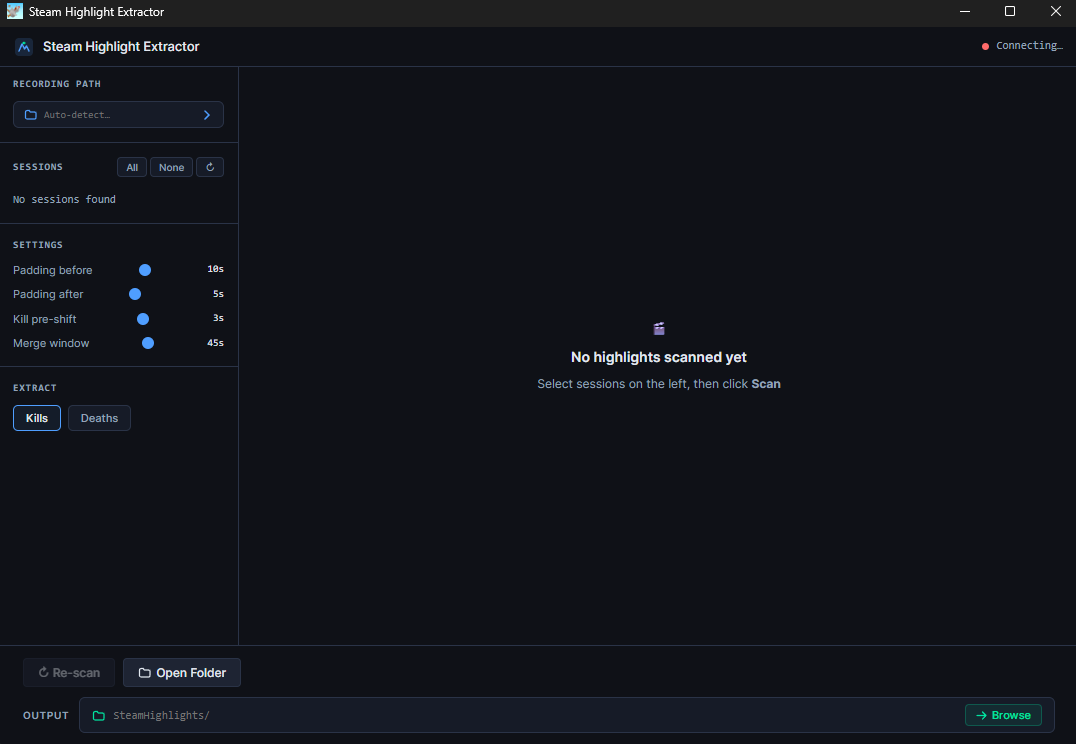
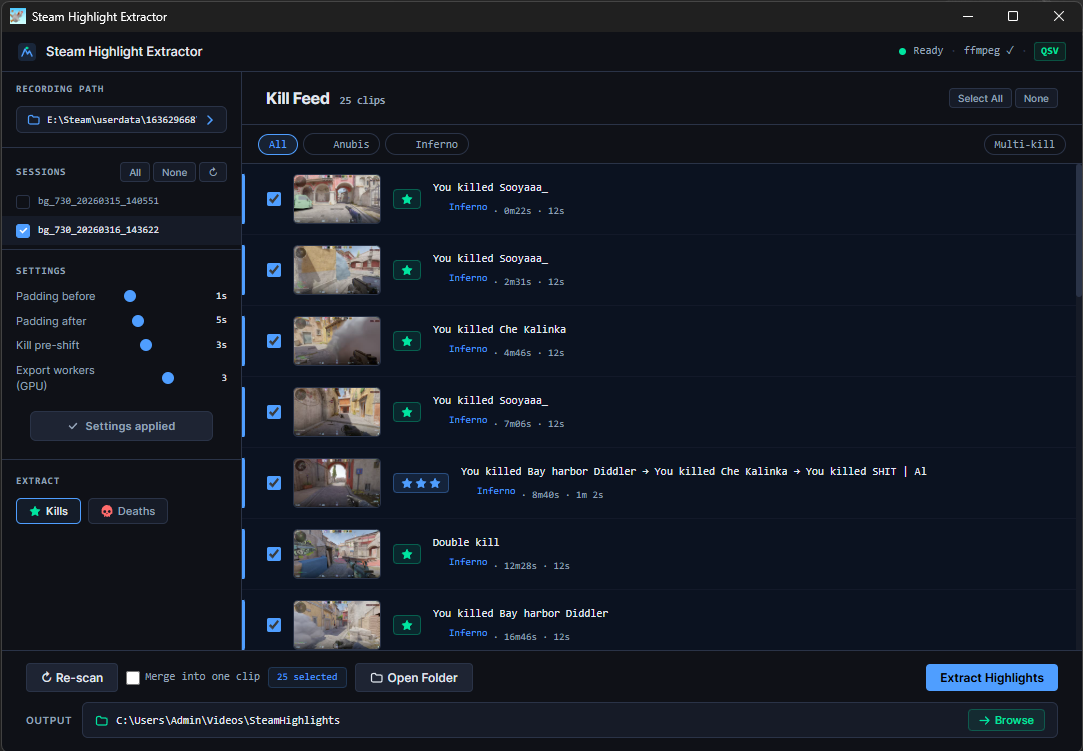
docs: update README and screenshot for v2.2.0
- Remove ffmpeg install step (now bundled)
- Document in-app preview player and clip trim controls
- Add preview player troubleshooting entry
- Update screenshot to current UI

diff --git a/README.md b/README.md
@@ -8,18 +8,12 @@ It reads the timeline data Steam already records alongside your gameplay, finds 
 
 ## Quick Start
 
-1. **Download** `SteamHighlightExtractor_2.0.1_x64-setup.exe` from the [Releases](../../releases) page and install it
-2. **Install ffmpeg** — pick one option:
-   - **Winget** (Windows 10/11): open a terminal and run:
-     ```
-     winget install Gyan.FFmpeg
-     ```
-   - **Direct download**: get a Windows build from [ffmpeg.org](https://ffmpeg.org/download.html) → Windows → "Windows builds from gyan.dev" → download `ffmpeg-release-essentials.zip`, extract it, and add the `bin/` folder to your PATH
-3. **Enable Steam Background Recording**
+1. **Download** `SteamHighlightExtractor_2.2.0_x64-setup.exe` from the [Releases](../../releases) page and install it
+2. **Enable Steam Background Recording**
    Steam → Settings → Game Recording → turn on Background Recording
-4. **Launch** `Steam Highlight Extractor` from the Start Menu
+3. **Launch** `Steam Highlight Extractor` from the Start Menu
 
-No Python installation required.
+No Python installation required. No ffmpeg installation required — it's bundled.
 
 ---
 
@@ -33,12 +27,14 @@ No Python installation required.
 
 The app auto-detects your Steam recording folder on launch and scans the most recent session automatically.
 
-1. **Select sessions** from the sidebar — add or remove sessions without re-scanning the ones you've already loaded
+1. **Select sessions** from the sidebar — add or remove sessions without re-scanning ones you've already loaded
 2. **Review highlights** in the kill feed — each row shows a thumbnail preview, kill type badge, clip name, and duration
-3. **Check the clips** you want to export (all are selected by default)
-4. Set your **output folder** and toggle **Merge** if you want a single combined file
-5. Click **▶ Export Selected** — per-clip progress cards show encoding status in real time
-6. Click **📂 Open Output Folder** when done
+3. **Preview clips** with the play button on any row — watch the raw DASH recording before exporting, with kill event markers shown on the timeline
+4. **Trim clips** inside the preview player — use the Start/End sliders to adjust clip boundaries, then click **✓ Apply** to save; trimmed rows get a **TRIMMED** badge
+5. **Check the clips** you want to export (all are selected by default)
+6. Set your **output folder** and toggle **Merge** if you want a single combined file
+7. Click **▶ Export Selected** — per-clip progress cards show encoding status in real time
+8. Click **📂 Open Output Folder** when done
 
 Use **⏹ Stop** to cancel at any time. Already-exported clips are always skipped automatically, so re-running is safe.
 
@@ -61,8 +57,9 @@ Use **⏹ Stop** to cancel at any time. Already-exported clips are always skippe
 ## Requirements
 
 - **Windows 10/11 x64**
-- **ffmpeg** — `winget install Gyan.FFmpeg` or download from [ffmpeg.org](https://ffmpeg.org/download.html)
 - **Steam Background Recording enabled**
+
+ffmpeg is bundled — no separate installation needed.
 
 ---
 
@@ -79,29 +76,33 @@ cd frontend
 npx tauri dev
 ```
 
+For dev mode you'll need `ffmpeg.exe` in the project root (it's bundled into the release build via PyInstaller but loaded from disk in dev).
+
 ---
 
 ## Building from source
 
 ```bash
-# 1. Bundle the Python backend as a sidecar executable
+# 1. Place ffmpeg.exe in the project root (required for PyInstaller bundling)
+
+# 2. Bundle the Python backend as a sidecar executable
 pip install pyinstaller
 pyinstaller server.spec --noconfirm
 
-# 2. Copy the sidecar into the Tauri binaries folder
+# 3. Copy the sidecar into the Tauri binaries folder
 copy dist\server.exe frontend\src-tauri\binaries\server-x86_64-pc-windows-msvc.exe
 
-# 3. Re-enable the sidecar in tauri.conf.json:
+# 4. Re-enable the sidecar in tauri.conf.json:
 #    "externalBin": ["binaries/server"]
 
-# 4. Build the Tauri installer
+# 5. Build the Tauri installer
 cd frontend
 npx tauri build
 ```
 
 Output: `frontend/src-tauri/target/release/bundle/`
 
-Or just run `build_tauri.bat` which does all of the above.
+Or just run `build_tauri.bat` which does all of the above (and checks for `ffmpeg.exe` upfront).
 
 ---
 
@@ -113,7 +114,8 @@ This tool:
 1. Reads the timeline JSON to find kill/highlight events
 2. Calculates which recording chunks cover each event, accounting for circular buffer rollover
 3. Extracts a thumbnail frame from the clip midpoint during the scan phase
-4. Concatenates the relevant chunks and uses ffmpeg to trim and encode each clip
+4. Serves the raw DASH stream to the in-app preview player so you can watch before exporting
+5. Concatenates the relevant chunks and uses ffmpeg to trim and encode each clip
 
 GPU-accelerated encoding is used automatically when available (NVIDIA NVENC, AMD AMF, or Intel Quick Sync). Falls back to software libx264 if no GPU encoder is detected.
 
@@ -145,13 +147,13 @@ Currently tested with **Counter-Strike 2 (CS2)**. Any game that writes events to
 
 **Wrong moment captured**
 - Increase the **Kill pre-shift** setting. CS2 logs kill events at death confirmation, which is 1–3 seconds after the shot lands.
+- Use the in-app preview player to check the clip, then trim it with the Start/End sliders before exporting.
 
 **Thumbnails not showing**
 - This is normal for events near the edge of the recording buffer — the chunk needed for the thumbnail may have been overwritten. The clip itself may still export fine.
 
-**ffmpeg not found**
-- Run `winget install Gyan.FFmpeg` in a terminal (use the exact ID — `ffmpeg` alone won't work)
-- Or place `ffmpeg.exe` in a folder on your PATH
+**Preview player won't load**
+- Make sure the session path is accessible. The backend streams DASH segments directly from your Steam gamerecordings folder.
 
 ---
 
@@ -162,6 +164,6 @@ Currently tested with **Counter-Strike 2 (CS2)**. Any game that writes events to
 | `steam_highlight_extractor.py` | Core clip logic — parse, scan, encode, merge |
 | `server.py` | FastAPI backend, serves the Tauri frontend over HTTP + SSE |
 | `frontend/` | Tauri v2 + Svelte 4 desktop app |
-| `server.spec` | PyInstaller spec for bundling the backend sidecar |
+| `server.spec` | PyInstaller spec for bundling the backend sidecar (includes ffmpeg) |
 | `build_tauri.bat` | One-click production build script |
 | `gui.py` | Legacy CustomTkinter UI (kept for reference) |
